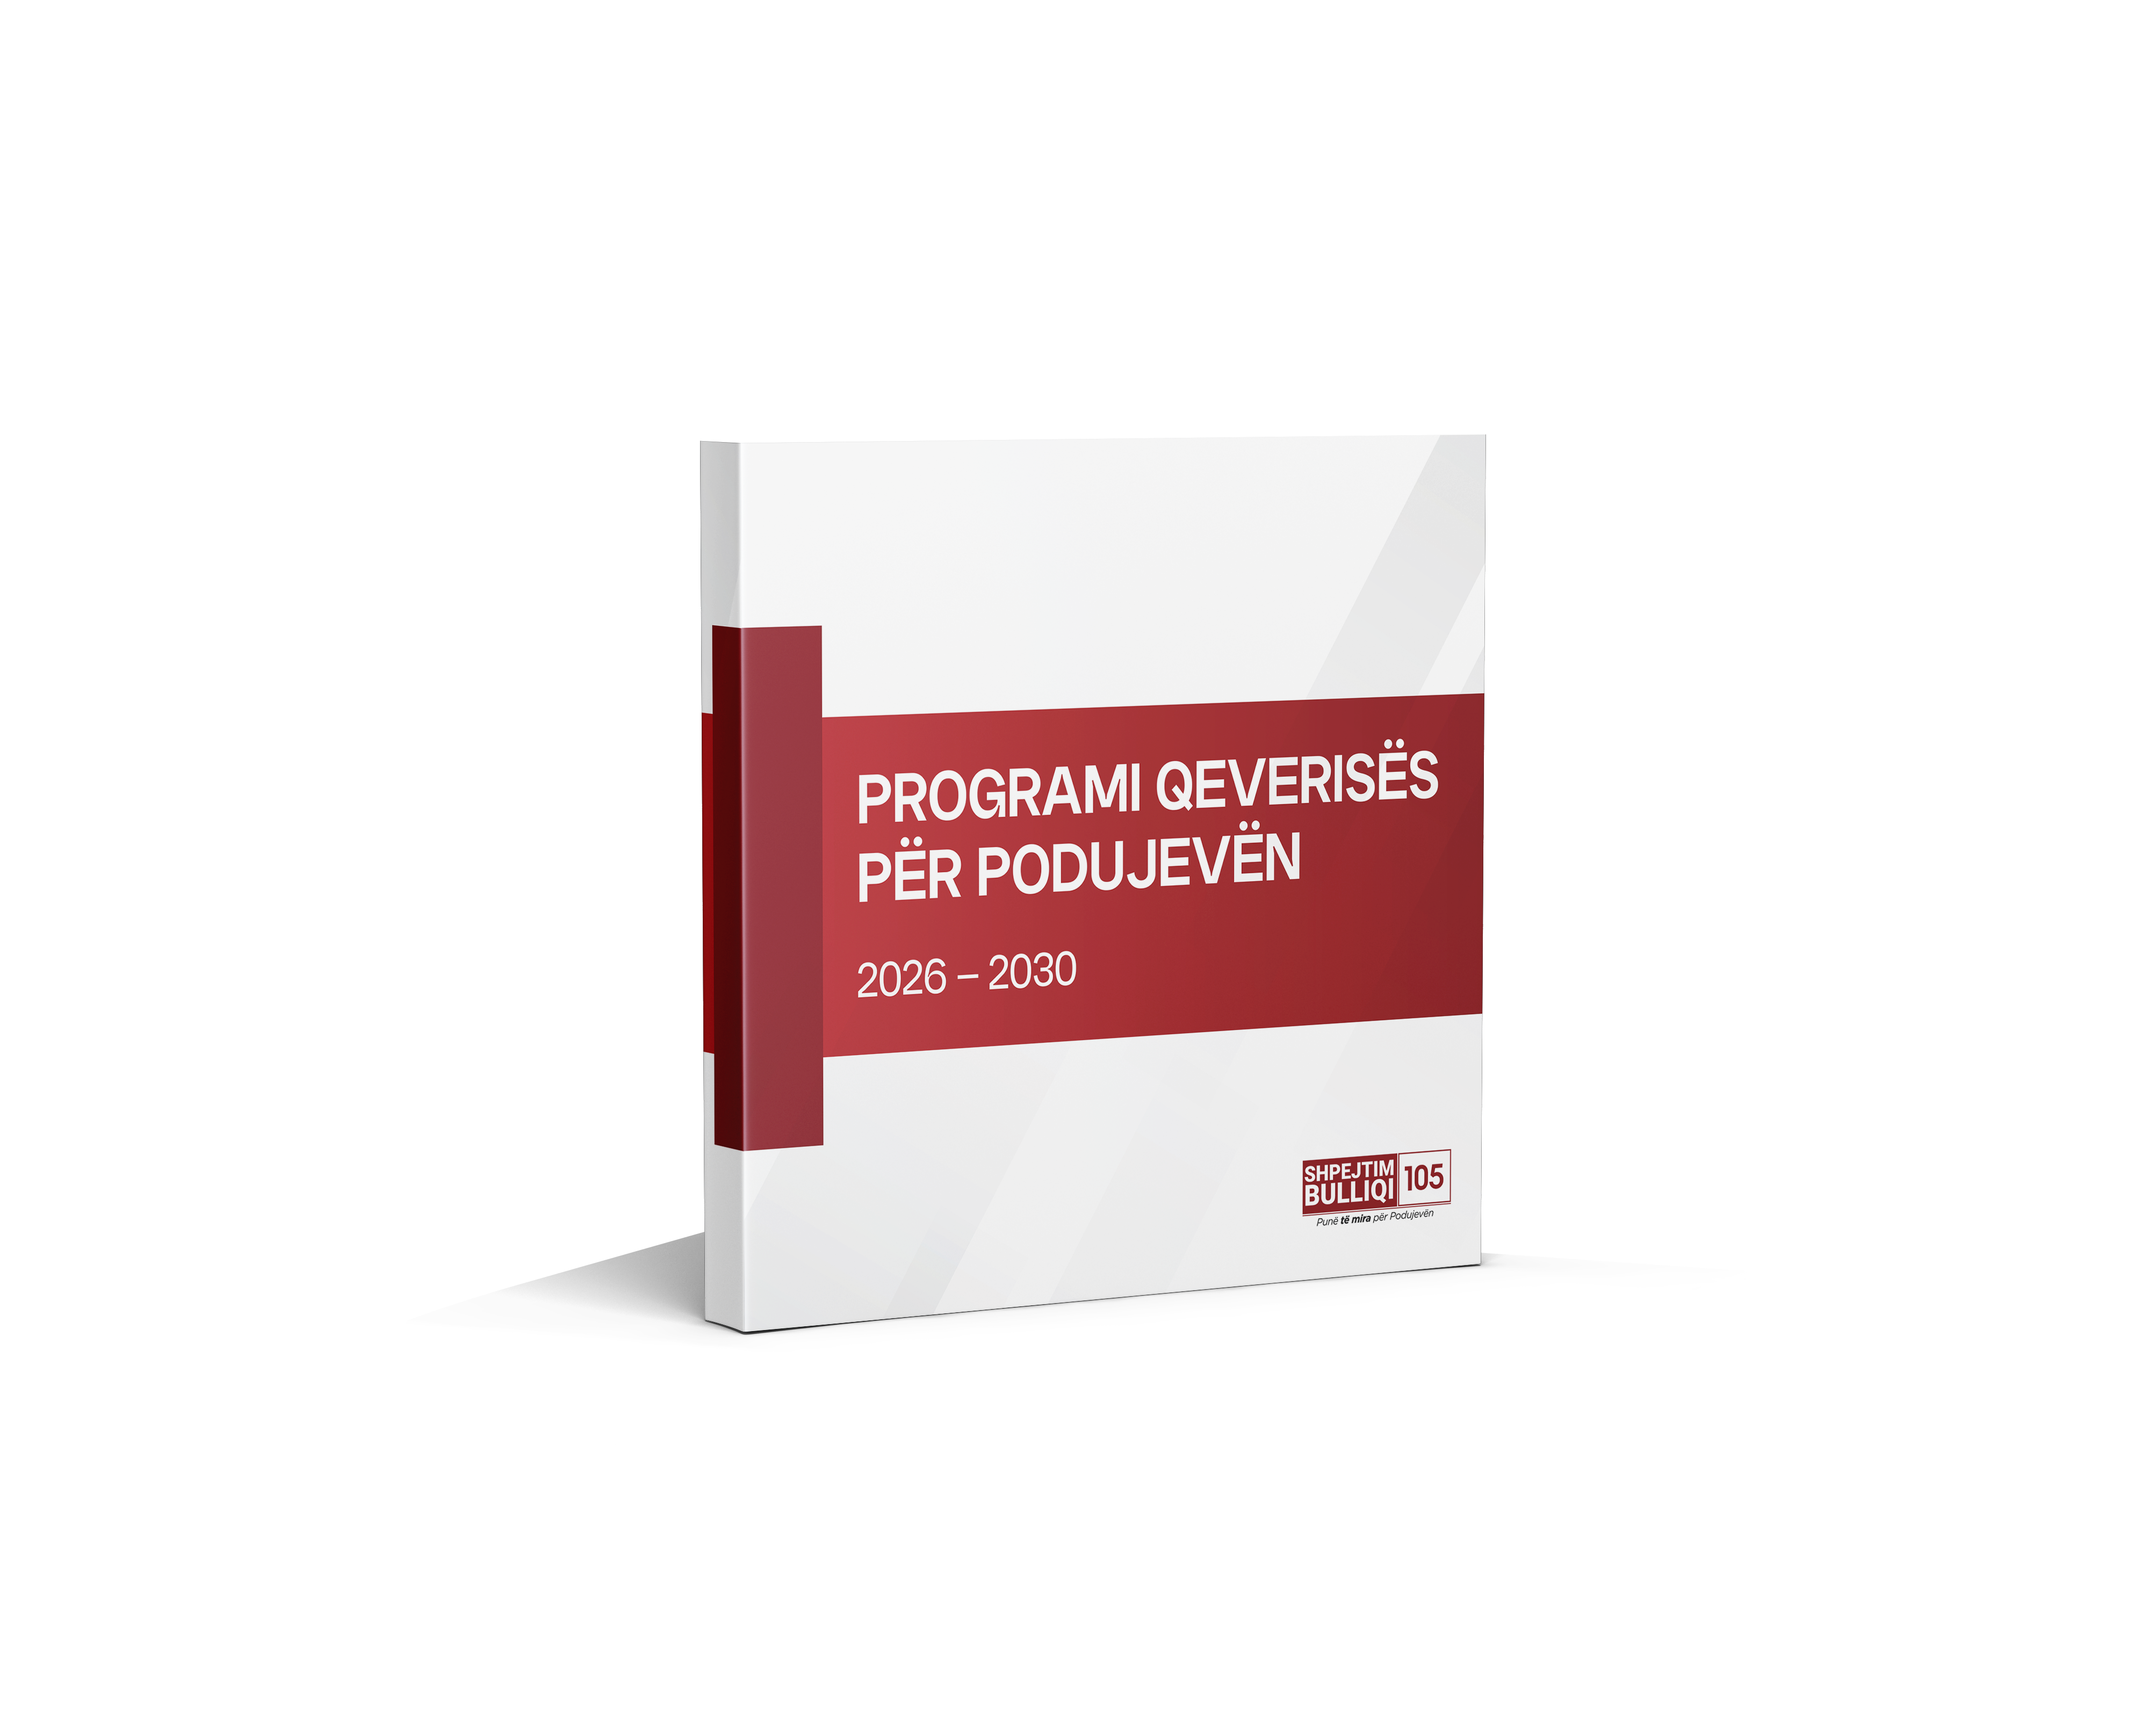
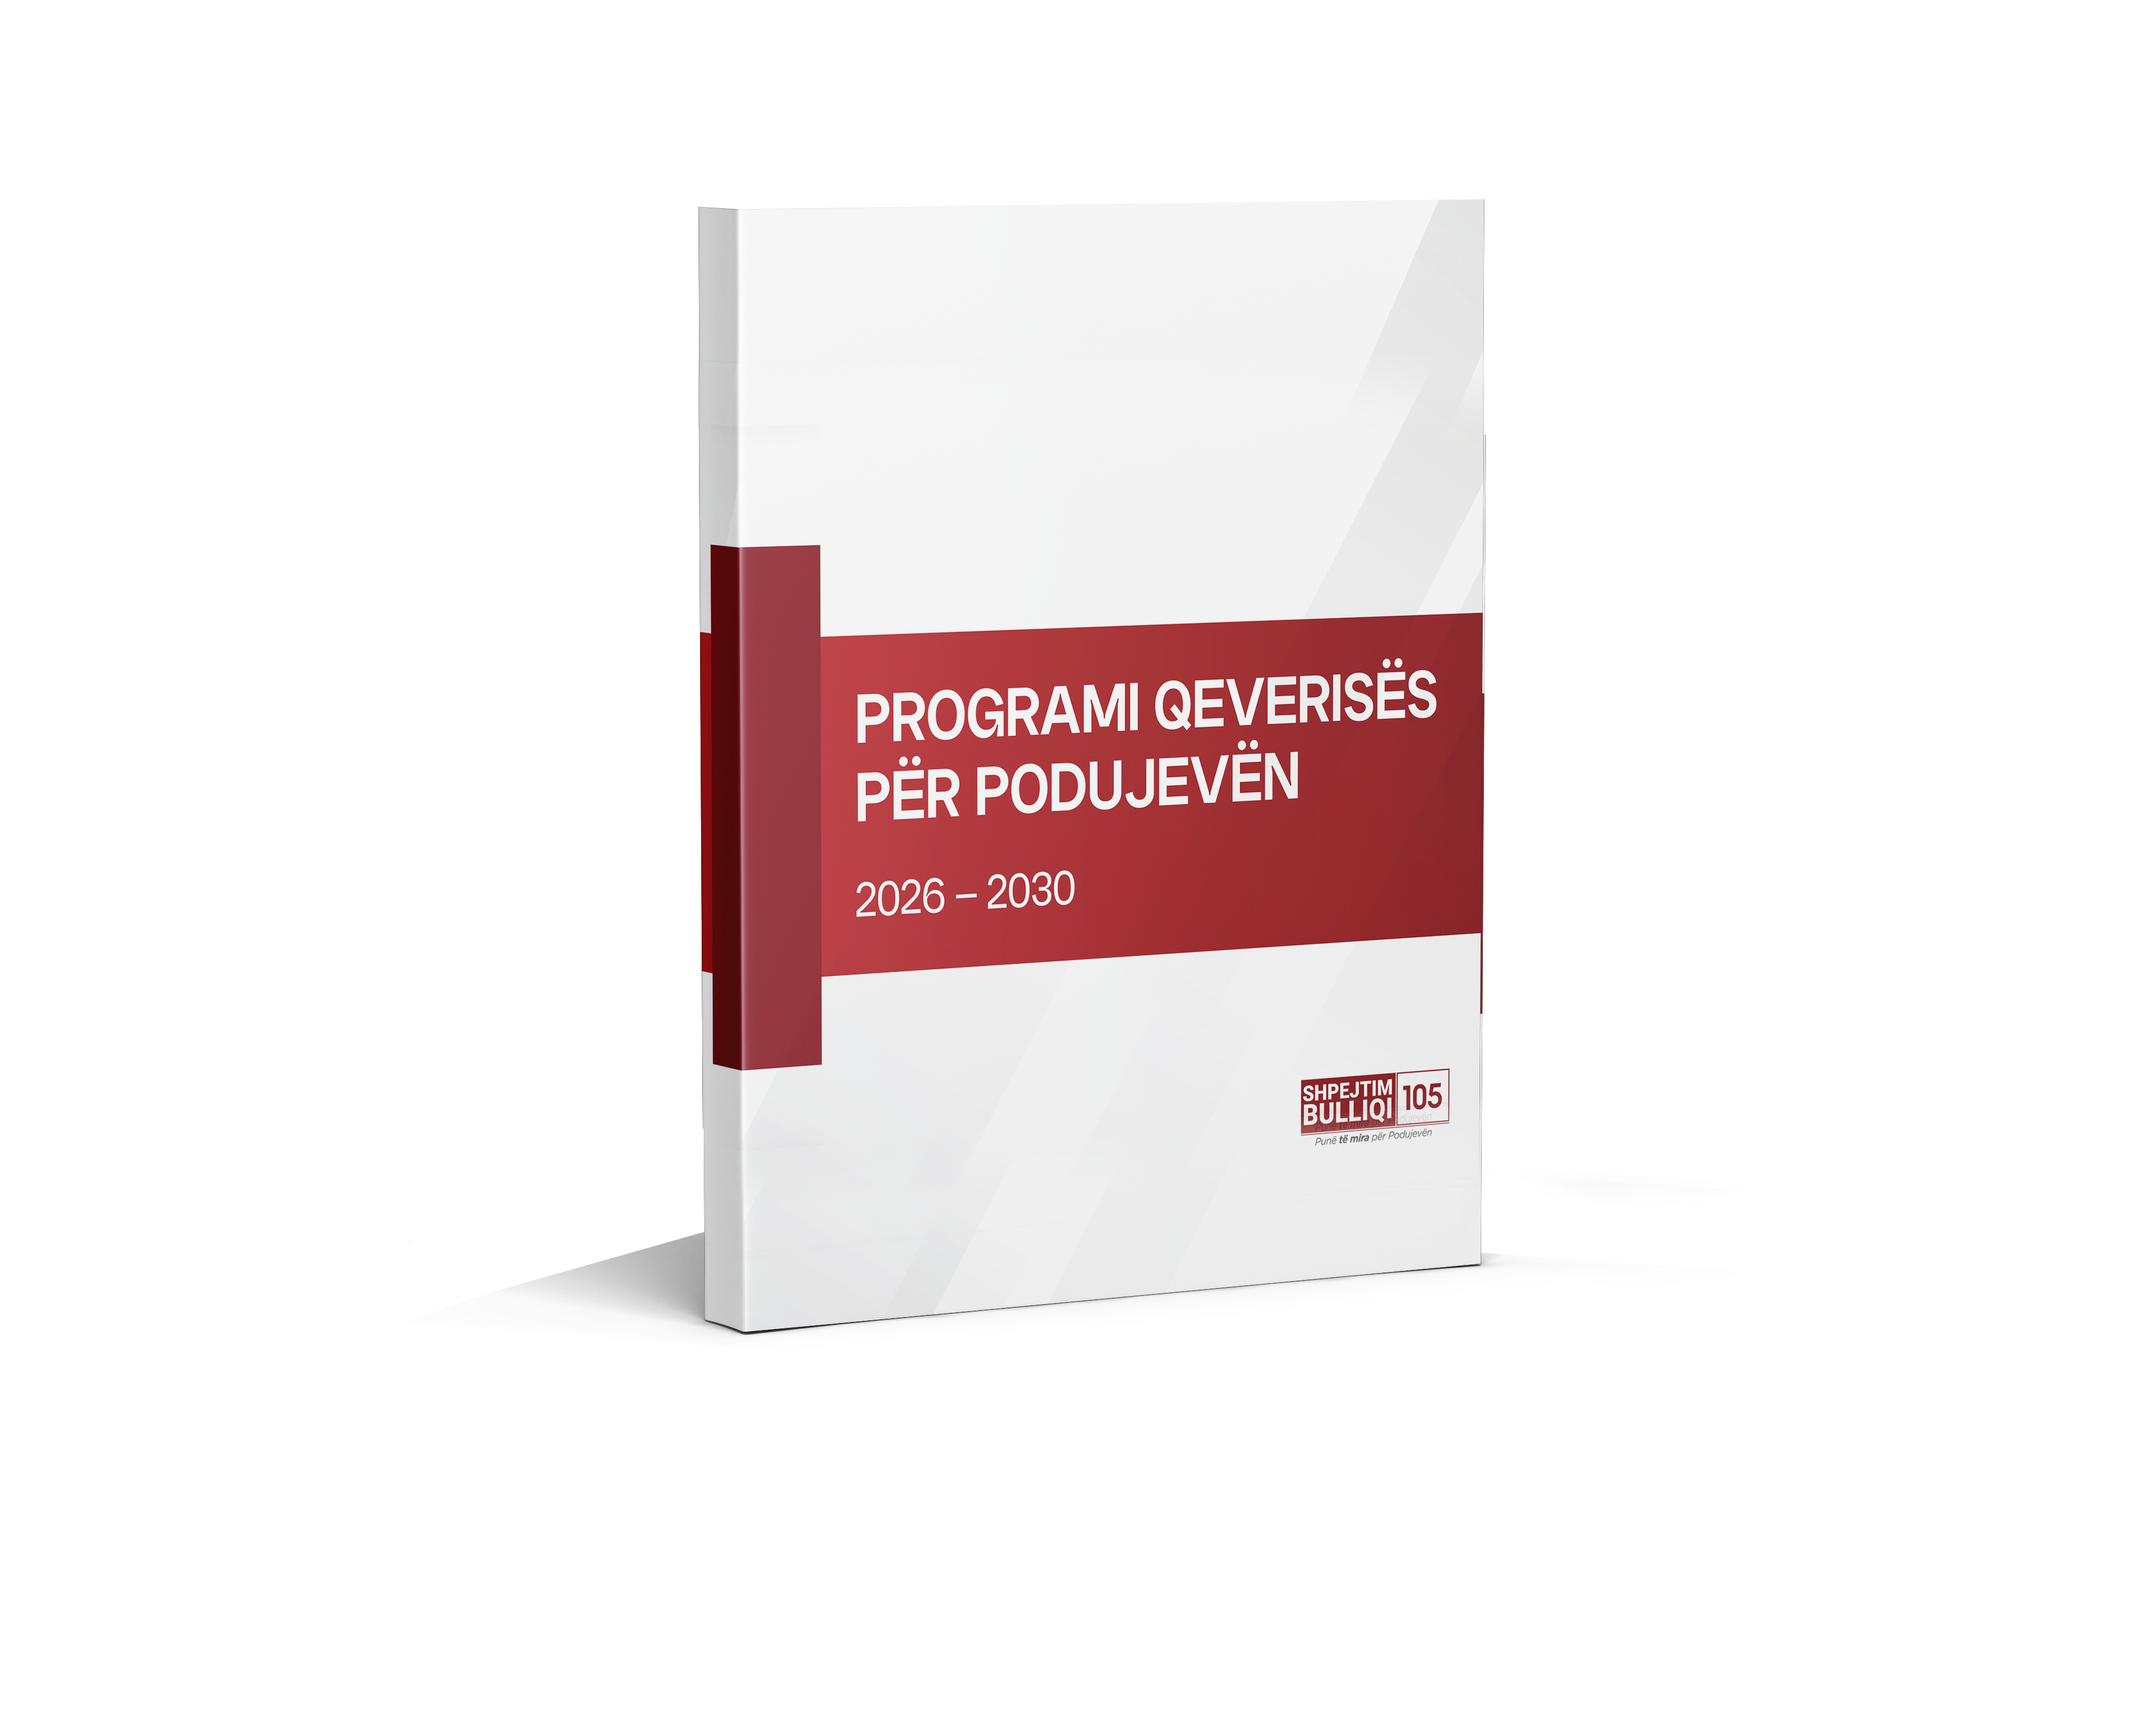
edit

diff --git a/index.html b/index.html
@@ -27,7 +27,7 @@
         </div>
         <div id="div2">
             <a href="filesvalzon/4_vjet_shb_web.pdf" target="_blank" ><p id="c1"><img src="filesvalzon/c1.png" alt=""></p></a>
-            <a href="filesvalzon/programi2025.pdf" target="_blank" ><p id="c2"><img src="filesvalzon/c22.png" alt=""></p></a>
+            <a href="filesvalzon/programi2025.pdf" target="_blank" ><p id="c2"><img src="filesvalzon/c2.png" alt=""></p></a>
         </div>
     </div>
 
